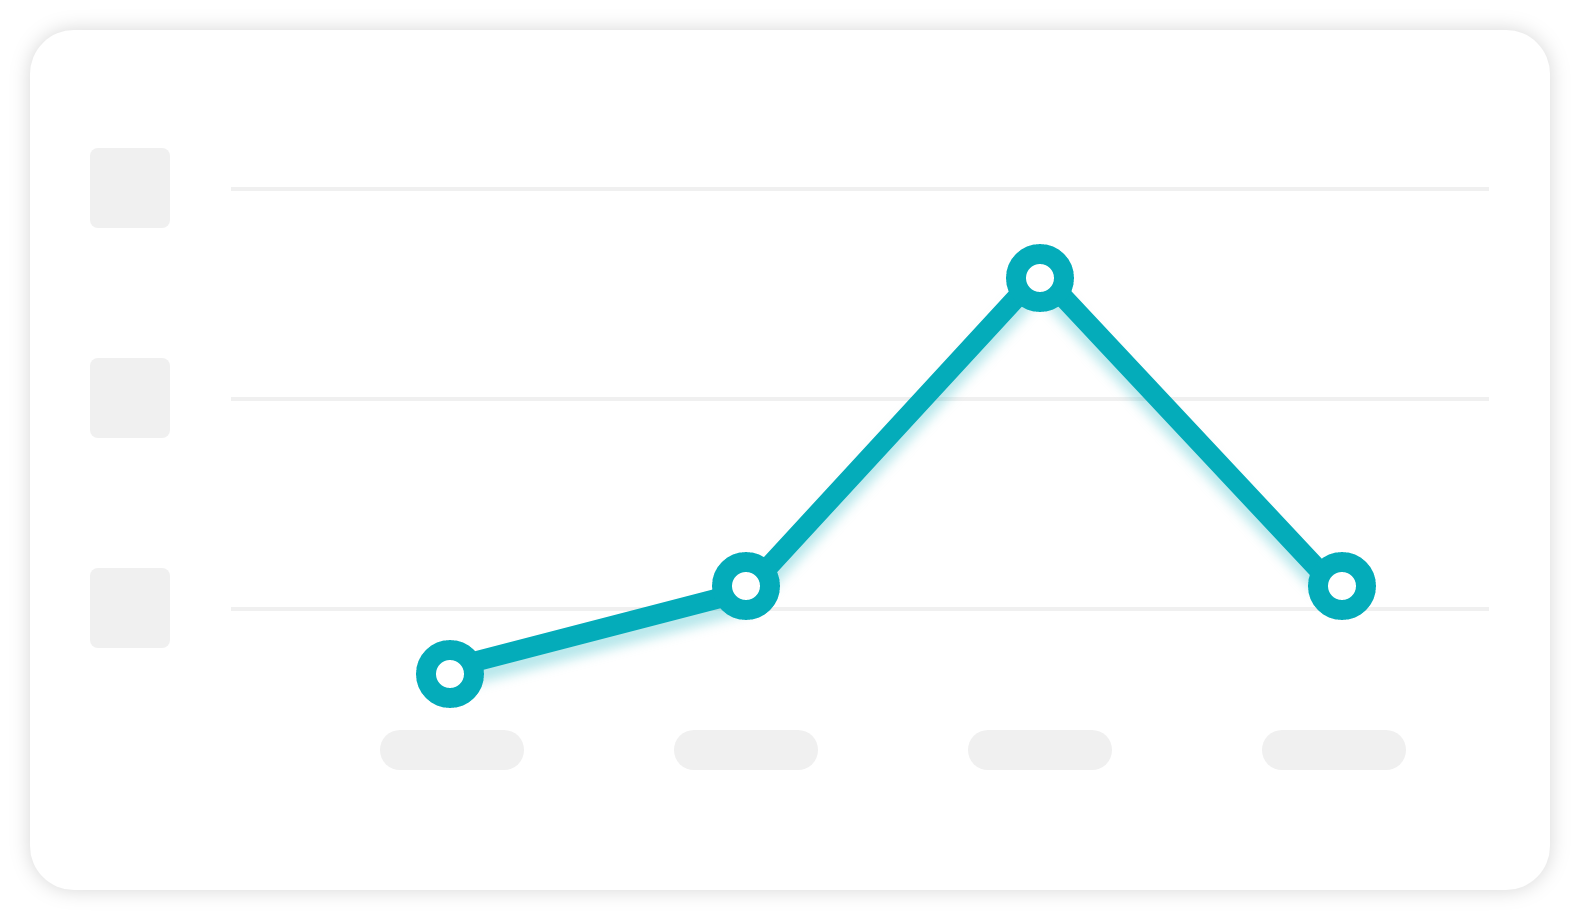
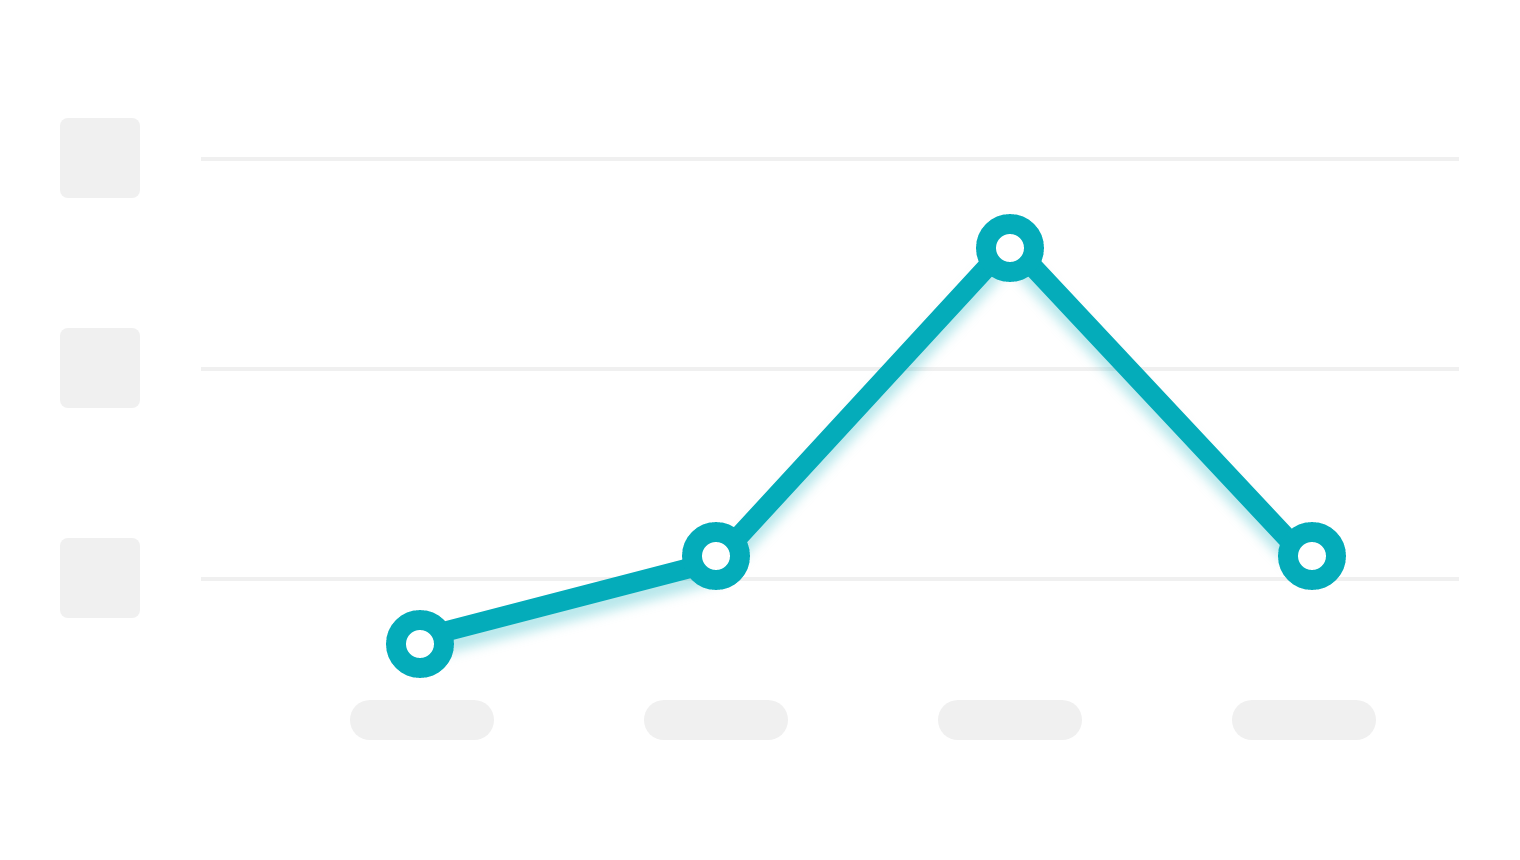
Replacedment for carousel images. Some fixes for ui image on mobile.wq

diff --git a/src/components/hero.js b/src/components/hero.js
@@ -67,7 +67,10 @@ const AppPreview = styled.div`
 const StyledBackgroundImage = styled(BackgroundImage)`
   width: 100%;
   display: flex;
+  align-items: flex-end;
   justify-content: center;
+  /* padding: 20px 20px 0; */
+  padding: 36px 36px 0;
   @media (min-width: 768px) {
     width: 674px;
     height: 782px;
@@ -79,12 +82,17 @@ const StyledBackgroundImage = styled(BackgroundImage)`
 `;
 
 const StyledUiImage = styled(Img)`
-  min-width: 372px;
-  box-shadow: 0 2.8px 2.2px rgba(0, 0, 0, 0.034),
-    0 6.7px 5.3px rgba(0, 0, 0, 0.048), 0 12.5px 10px rgba(0, 0, 0, 0.06),
-    0 22.3px 17.9px rgba(0, 0, 0, 0.072), 0 41.8px 33.4px rgba(0, 0, 0, 0.086),
-    0 100px 80px rgba(0, 0, 0, 0.12);
-  transform: scale(0.9) translateY(40px);
+  box-shadow: 0px 0px 10px #00000029;
+  margin-bottom: -36px;
+  width: 100%;
+  /* TODO: why do I have to do this? */
+  &.gatsby-image-wrapper {
+    width: 100%;
+    /* height: 100%; */
+  }
+  @media (min-width: 444px) {
+    min-width: 372px;
+  }
   @media (min-width: 768px) {
     width: 523px;
     height: 392px;
@@ -291,7 +299,7 @@ const Hero = () => {
           <StyledUiImage
             fluid={data.uiImage.childImageSharp.fluid}
             imgStyle={{
-              objectFit: "cover",
+              objectFit: "contain",
             }}
           />
         </StyledBackgroundImage>

diff --git a/src/components/layout.js b/src/components/layout.js
@@ -42,7 +42,7 @@ const Wrapper = styled.div`
 
   @media (min-width: 768px) {
     grid-template-rows: 97px 1fr auto;
-    grid-template-columns: 70px 1fr 70px;
+    grid-template-columns: 140px 1fr 140px;
     > * {
       grid-column: 2 / -2;
     }
